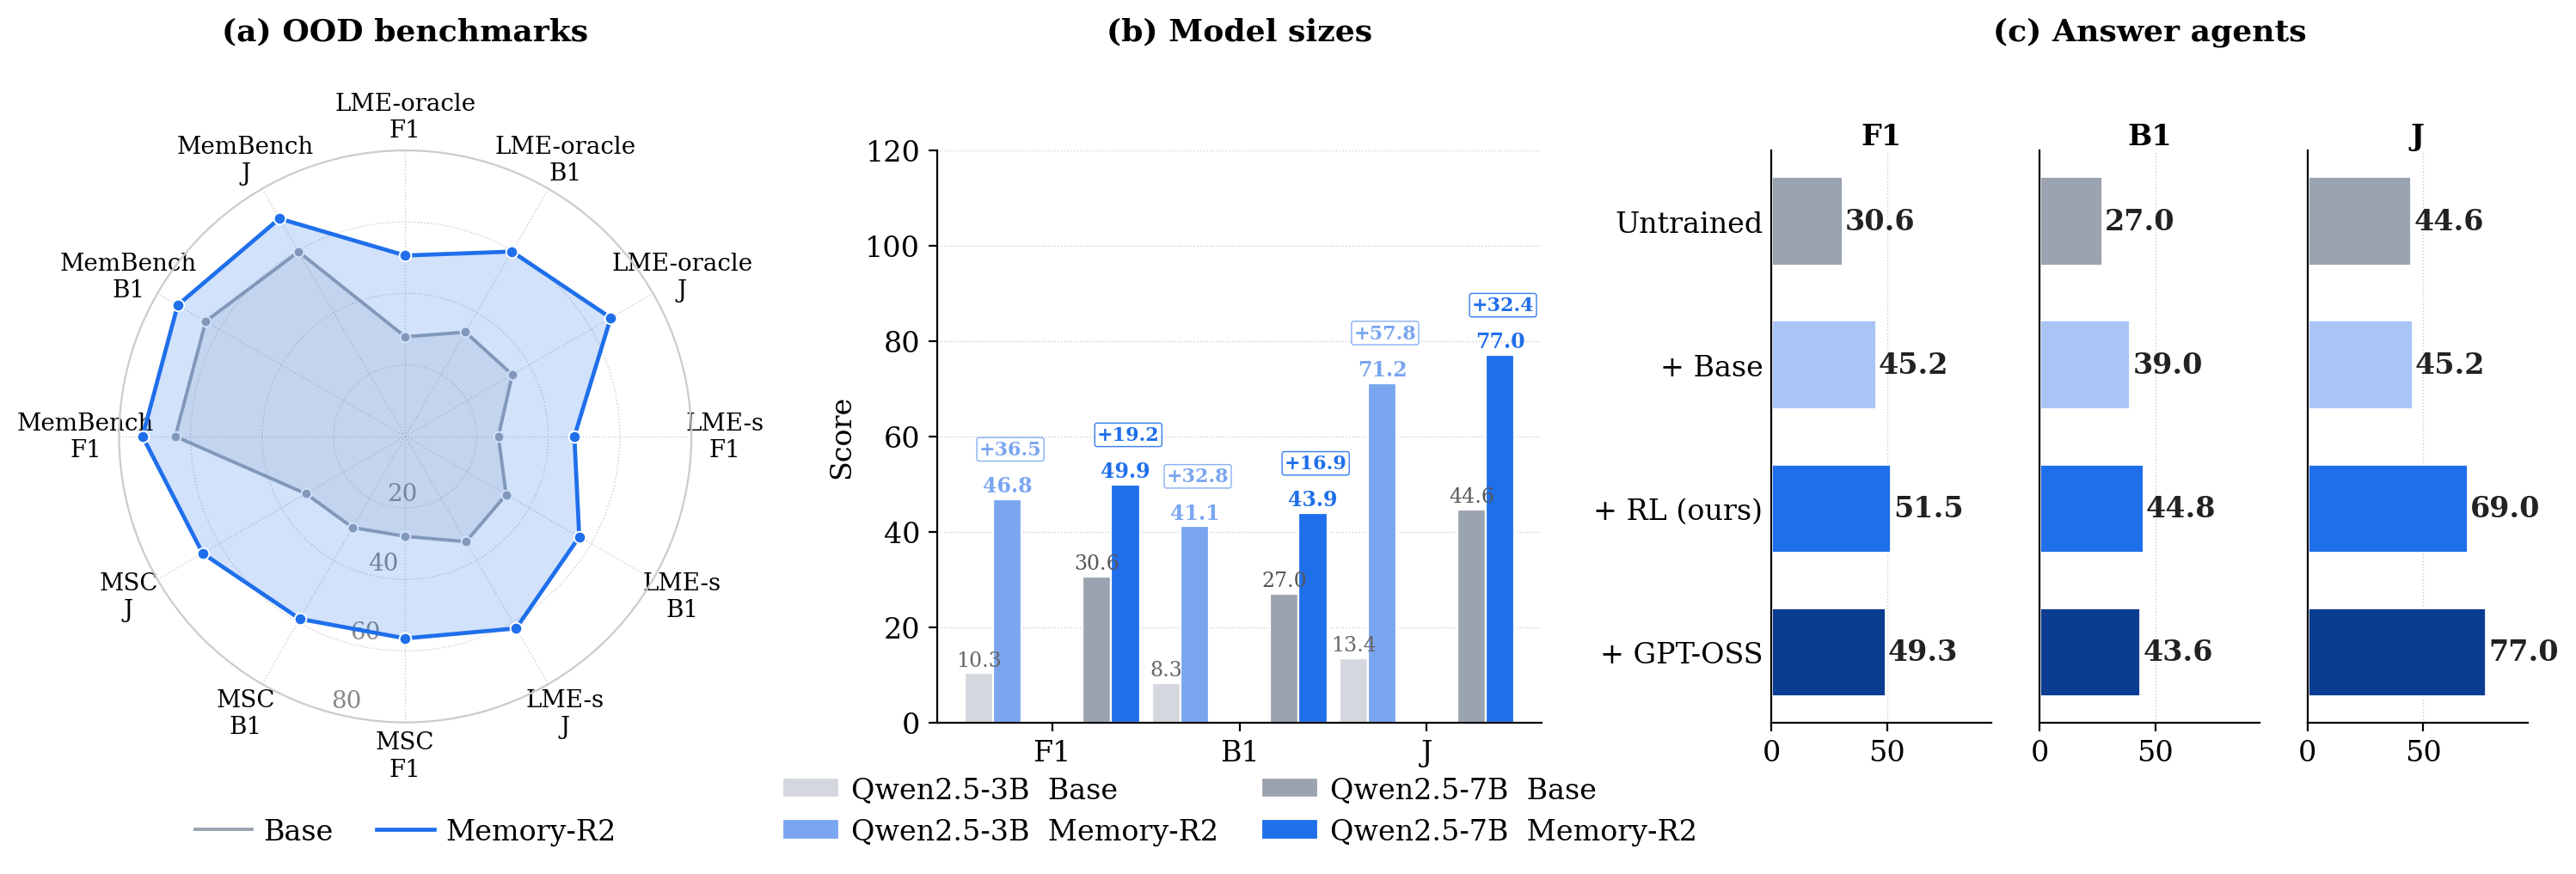
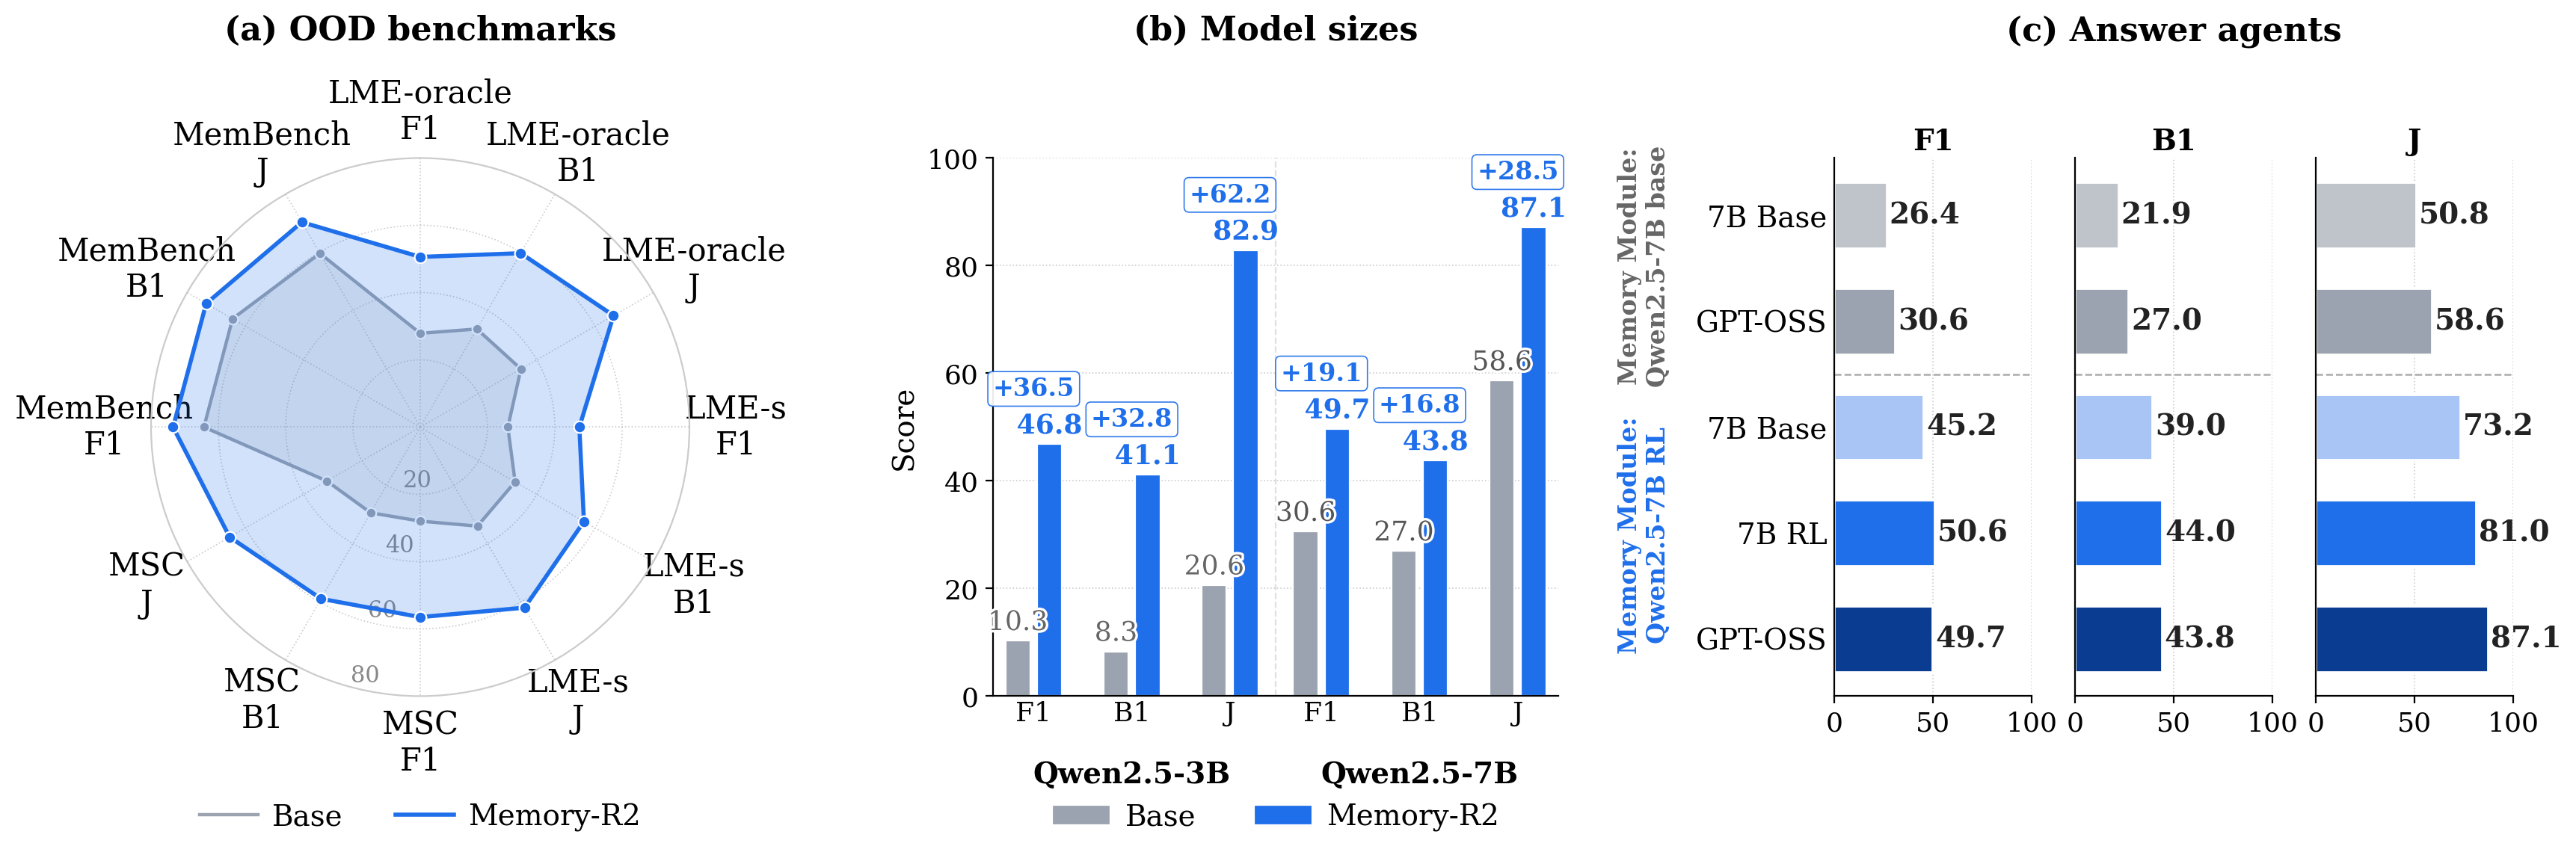
updated readme

diff --git a/README.md b/README.md
@@ -23,7 +23,7 @@ Long-horizon LLM agents need to *form*, *evolve*, and *retrieve* memory across m
 
 ![GRPO vs LoGo-GRPO](figures/teaser_figure.png)
 
-Standard GRPO (top) compares trajectories that progressively diverge in their intermediate memory states using only a terminal global reward — this conflates session-level credit. LoGo-GRPO (bottom) keeps the global reward but additionally re-rolls a session from a shared snapshot, yielding fair within-session comparisons.
+Standard GRPO (left) compares trajectories that progressively diverge in their intermediate memory states using only a terminal global reward — this conflates session-level credit. LoGo-GRPO (right) keeps the global reward but additionally re-rolls a session from a shared snapshot, yielding fair within-session comparisons.
 
 ### Training pipeline
 
@@ -39,7 +39,19 @@ Each session is processed chunk-by-chunk; per chunk the extractor proposes facts
 
 ![Generalization](figures/generalization_combined.png)
 
-Memory-R2 transfers to out-of-distribution benchmarks (LongMemEval-oracle/-s, MSC-Self-Instruct, MemBench), generalizes from 3B to 7B with the largest gains on the smaller model, and is robust across answer agents (base Qwen-7B, GRPO-tuned Qwen-7B, GPT-OSS-120B).
+Memory-R2 transfers to out-of-distribution benchmarks (LongMemEval-oracle/-s, MSC-Self-Instruct, MemBench), generalizes from 3B to 7B with the largest gains on the smaller model, and is robust across answer agents (base Qwen-7B, GRPO-tuned Qwen-7B, GPT-OSS-120B). Notably, these gains come from training on **only two LoCoMo conversations**, demonstrating that the paradigm is highly data-efficient.
+
+### LoGo-GRPO and curriculum learning are both essential
+
+![LoGo-GRPO vs GRPO and curriculum effect](figures/logo_grpo_curriculum.png)
+
+**(a, b)** LoGo-GRPO consistently outperforms standard GRPO across every curriculum stage (8 / 16 / 32 sessions), confirming that local rerollouts mitigate credit-assignment bias rather than just adding rollouts. **(c, d)** Direct 32-session training collapses validation F1 from ~0.47 down to ~0.27 and lets M-Fail explode to >70%, while the 8 → 16 → 32 curriculum stays stable around F1 ≈ 0.50 with M-Fail under 7%. Early long-horizon errors propagate across sessions and corrupt memory; the curriculum first teaches reliable short-horizon behavior, then scales up.
+
+### Inference efficiency and compression penalty
+
+![Latency and compression](figures/efficiency_combined.png)
+
+**(a, b)** Memory-R2 improves the accuracy–latency trade-off: on Qwen2.5-7B it raises F1 *and* lowers per-conversation / per-generated-token latency; on Qwen2.5-3B it brings large F1 gains with only a modest latency increase. **(c, d)** Sweeping the compression penalty λ_comp ∈ {0, 0.1, 0.3, 0.5} for both 3B and 7B, **λ_comp = 0.3** (yellow band) consistently maximizes F1 and BLEU-1 — small λ retains noisy memories while overly aggressive compression discards useful evidence. This is the default used throughout the paper.
 
 ---
 
@@ -305,7 +317,8 @@ A complete description of every paper cell — including source artifacts and th
 ```bibtex
 @article{memory_r2_2026,
   title  = {Memory-R2: Fair Credit Assignment for Long-Horizon Memory-Augmented LLM Agents},
-  author = {Anonymous},
+  author = {Yan, Sikuan and Bahloul, Ahmed and Nie, Ercong and Schwarzmann, Susanna and
+            Trivisonno, Riccardo and Tresp, Volker and Ma, Yunpu},
   year   = {2026},
   note   = {Under review}
 }